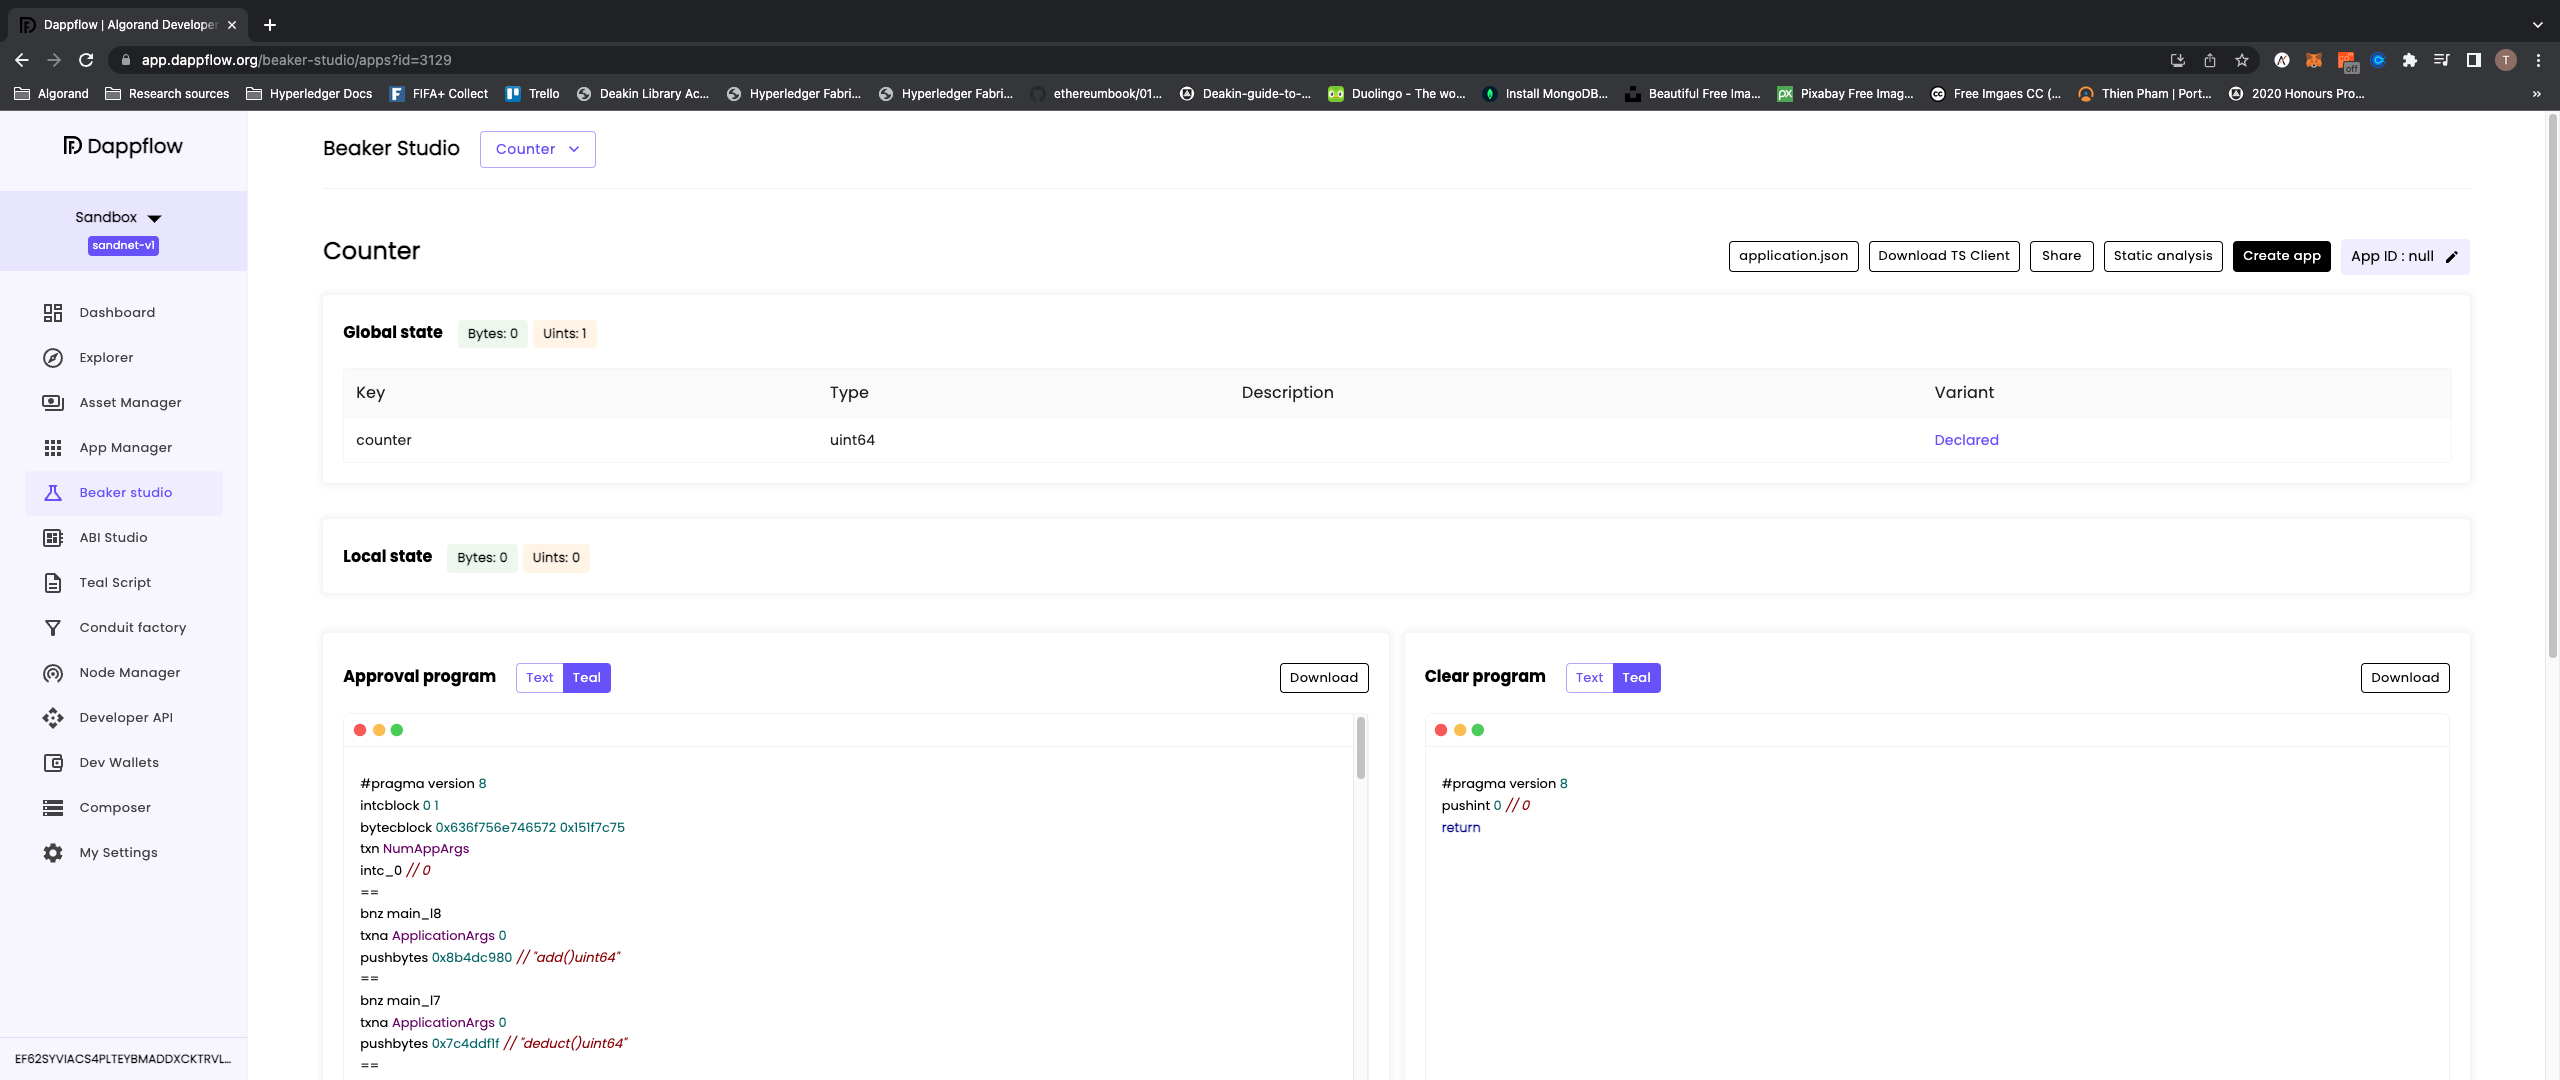
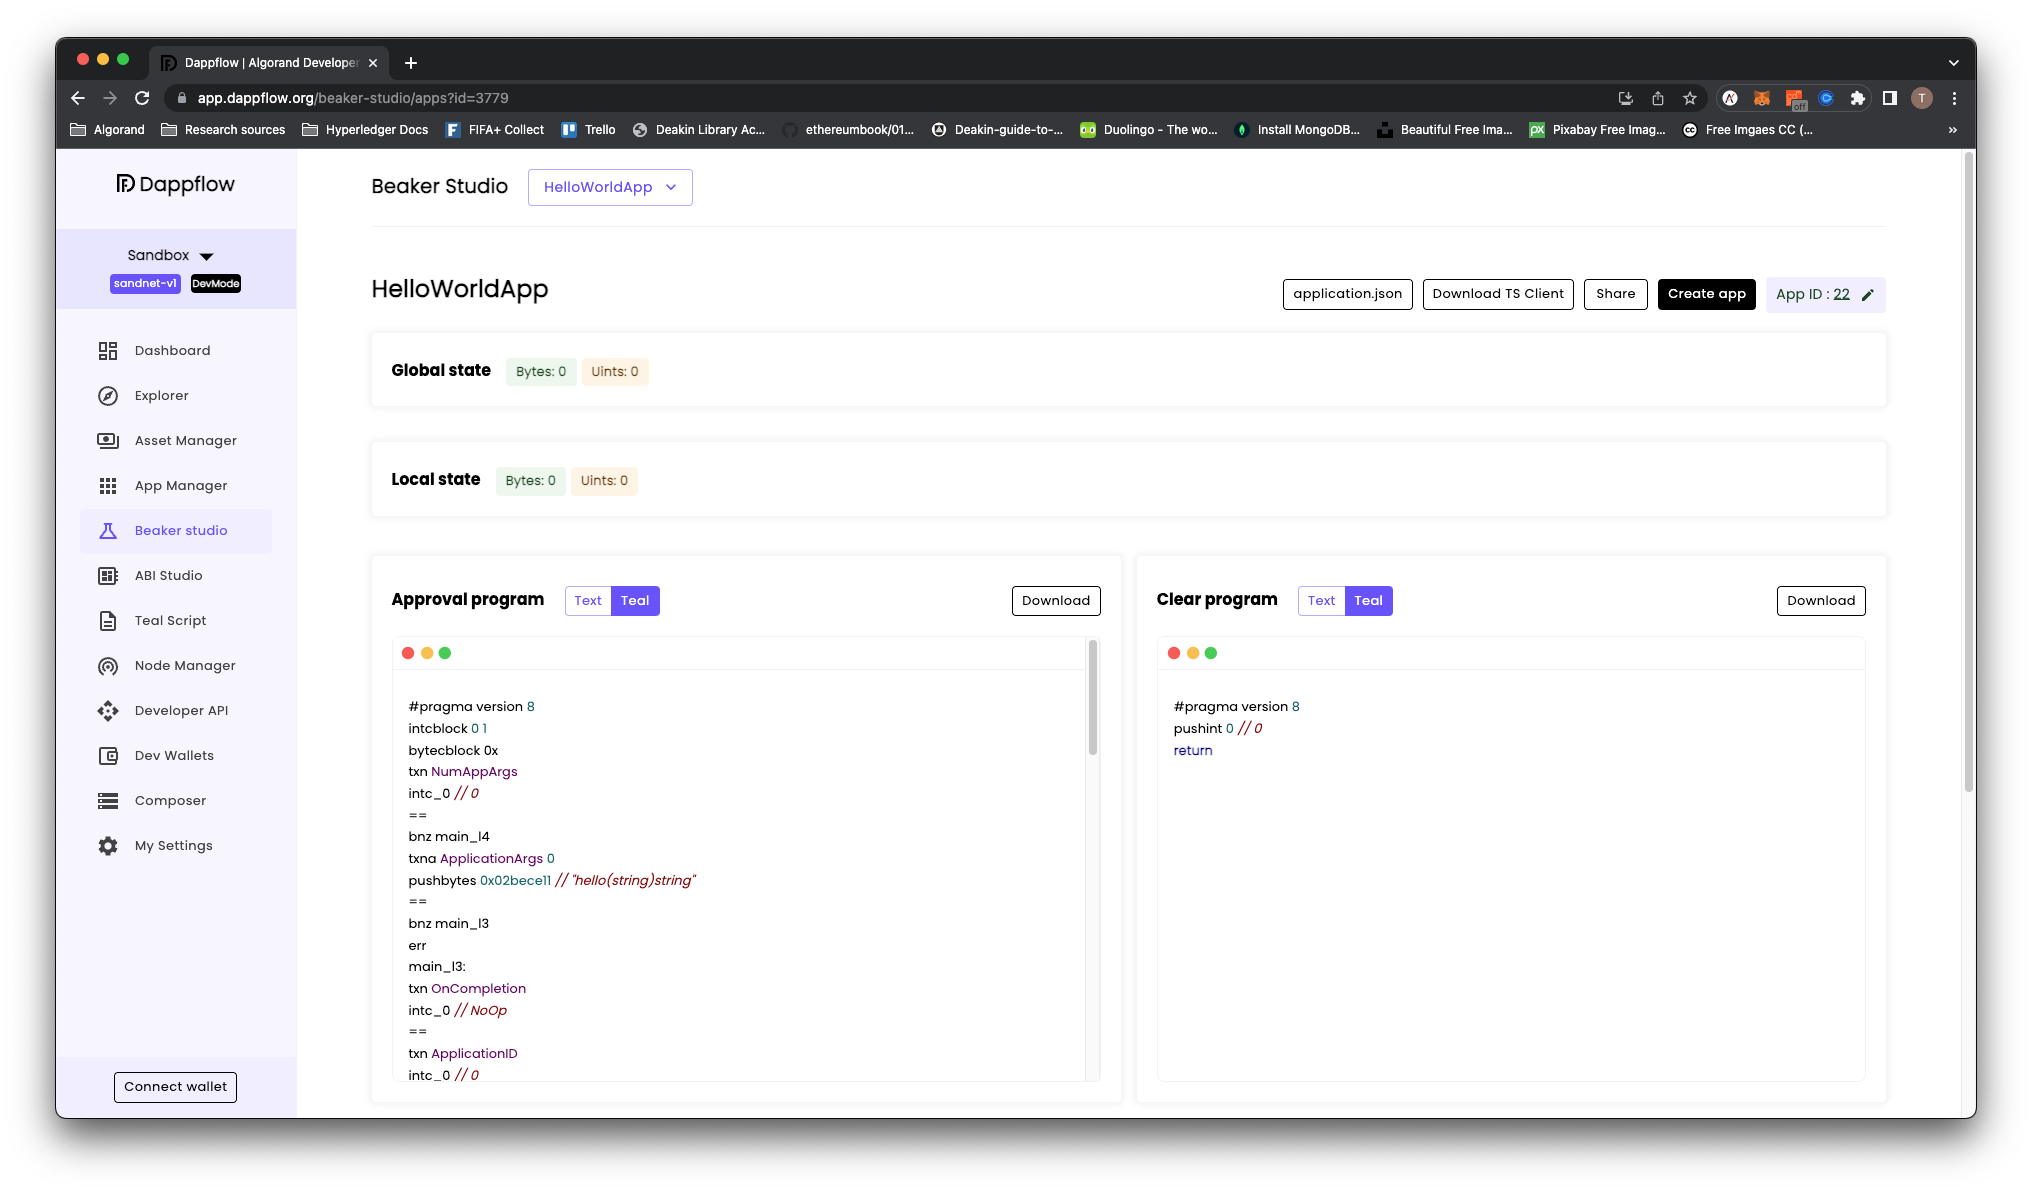
minor updates

diff --git a/Lab1/compile_smart_contract.md b/Lab1/compile_smart_contract.md
@@ -1,30 +1,17 @@
 # Compile smart contract
 
-In the `algohub-pyteal` directory, clone the repository `algokit-pyteal-course` from AlgoHUB. It contains some materials that will help us along the course
-
-```bash
-git clone https://github.com/Algo-Hub-io/algokit-pyteal-course.git
-```
-
 ## Compile beaker-pyteal smart contract
 
-Now, let's create a new folder in the `playground` directory for our smart contract and name it `counter`
-![make_counter_folder](make_counter_folder.png)
-
-Now, head to the `algokit-pyteal-course` directory that we just cloned and navigate to `Lab1` folder.
-
-Find the `counter.py` file, copy and paste it into the **counter** folder in our `playground`
-
-In the terminal, change directory into the **counter** folder
+In the terminal, change directory into the **hello_world** folder
 
 ```bash
-cd playground/counter
+cd playground/hello_world
 ```
 
 And compile the smart contract with
 
 ```bash
-python3 counter.py
+python3 build.py
 ```
 
 The contract after being compiled will produce 4 new files inside the `artifacts` folder

diff --git a/Lab1/deploy_contract.md b/Lab1/deploy_contract.md
@@ -27,11 +27,11 @@ Then, we will connect to this wallet by hitting the **Connect wallet** button on
 
 ## Deploy smart contract
 
-As our `counter` smart contract is written in `beaker-pyteal`, we will use **Beaker studio** to deploy our smart contract.
+As our `helloworld` smart contract is written in `beaker-pyteal`, we will use **Beaker studio** to deploy our smart contract.
 
 Choose **Beaker studio** on the side menu , choose **Select app** > **Import beaker app** > Switch to **File** > choose **Upload file**
 
-Navigate to the `counter` folder in our `playground` and choose to upload the `application.json` file inside the `artifacts` folder. After uploading, **Beaker studio** will look like this
+Navigate to the `hello_world` folder in our `playground` and choose to upload the `application.json` file inside the `artifacts` folder. After uploading, **Beaker studio** will look like this
 ![beaker_studio](beaker_studio.png)
 
 Now, choose **Create app** > **Create** to deploy the smart contract.
